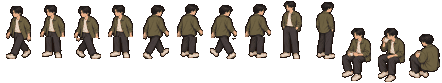
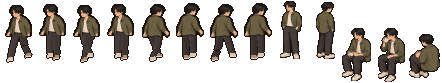
Walk cycle: generated upper body, redrawn legs that really alternate
Cutting and mirroring the generated legs left toes pointing backwards and legs jumping
sideways. Walk frames now keep each person's generated upper body and get legs redrawn in
their own trouser and shoe colours: one leg forward, passing (swinging foot lifted, a 1px
bob), the other leg forward, passing; far leg in shade, trailing knee bent, toes forward.

diff --git a/art/import_people.py b/art/import_people.py
@@ -155,13 +155,24 @@ def outline(im):
 
 
 def make_gait(frames, fw, anchor):
-    """The generated walk frames are all one stride with small wobbles, so walking looked like
-    gliding. Build a real alternating cycle per direction from the widest stride:
-      1 stride (as generated)  2 passing (feet together, 1px up)  3 the other stride (legs
-      mirrored about the body's centre)  4 passing."""
+    """The generated walk frames are all one frozen stride, and cutting/mirroring their legs
+    looked wrong (toes pointing backwards, legs jumping about). So each walk frame keeps the
+    generated upper body and gets legs redrawn in the person's own trouser and shoe colours
+    (sampled from their standing pose), in a real alternating cycle: one leg forward, passing
+    (the swinging foot lifted, the body bobbing up), the other leg forward, passing. The far
+    leg is in shade, the trailing knee bends, toes always point the way you walk."""
+    import math
     arr = np.asarray(frames).copy()
     ax, ay = anchor
+    fh = arr.shape[0]
     get = lambda n: arr[:, ORDER.index(n) * fw : (ORDER.index(n) + 1) * fw].copy()
+    lum = lambda c: 0.299 * c[0] + 0.587 * c[1] + 0.114 * c[2]
+
+    def ramp(px, fallback):
+        if not px:
+            return fallback
+        px = sorted(px, key=lum)
+        return [tuple(int(v) for v in px[int(len(px) * q)][:3]) + (255,) for q in (0.15, 0.5, 0.85)]
 
     def spread(f):
         low = (f[..., 3] > 0)[ay - 4 : ay]
@@ -169,27 +180,73 @@ def make_gait(frames, fw, anchor):
         return xs.max() - xs.min() if len(xs) else 0
 
     for d in ("front", "back"):
-        A = max((get(f"walk-{d}-{i}") for i in range(1, 5)), key=spread)
-        solid = A[..., 3] > 0
-        ys = np.nonzero(solid.any(1))[0]
-        top = ys[0]
-        hip = top + int((ay - top) * 0.62)  # below this: the legs
-        cx = int(np.median(np.nonzero(solid[top + int((ay - top) * 0.3) : top + int((ay - top) * 0.55)])[1]))
-        B = A.copy()
-        B[hip:] = 0
-        for x in range(fw):
-            mx = 2 * cx - x
-            if 0 <= mx < fw:
-                col = A[hip:, x]
-                B[hip:, mx] = np.where(col[:, 3:4] > 0, col, B[hip:, mx])
         S = get(f"stand-{d}")
-        passing = np.zeros_like(A)
-        passing[:hip] = A[:hip]
-        passing[hip:] = np.where(S[hip:, :, 3:4] > 0, S[hip:], 0)
-        passing = np.roll(passing, -1, axis=0)  # a little bob
-        for i, f in enumerate((A, passing, B, passing), start=1):
-            k = ORDER.index(f"walk-{d}-{i}")
-            arr[:, k * fw : (k + 1) * fw] = f
+        a = S[..., 3] > 0
+        top = np.nonzero(a.any(1))[0][0]
+        H = ay - top
+        hip = top + int(H * 0.6)
+        pants = ramp([tuple(S[y, x]) for y in range(hip + 3, ay - 6) for x in range(fw) if a[y, x] and lum(S[y, x]) > 40], [(40, 36, 44, 255), (58, 52, 62, 255), (80, 74, 86, 255)])
+        shoes = ramp([tuple(S[y, x]) for y in range(ay - 4, ay) for x in range(fw) if a[y, x] and lum(S[y, x]) > 120], [(200, 196, 188, 255), (230, 226, 218, 255), (250, 248, 244, 255)])
+        A = max((get(f"walk-{d}-{i}") for i in range(1, 5)), key=spread)
+        sa = A[..., 3] > 0
+        cx = int(np.median(np.nonzero(sa[top + int(H * 0.3) : top + int(H * 0.55)])[1]))
+        fwd = (-1.0, 0.35) if d == "front" else (1.0, -0.3)  # the walking direction, in the sprite
+        for k in range(4):
+            s = math.cos(2 * math.pi * k / 4)  # +1 one leg forward, -1 the other
+            bob = -1 if abs(s) < 0.5 else 0
+            img = Image.new("RGBA", (fw, fh), (0, 0, 0, 0))
+            px = img.load()
+
+            def put(x, y, c):
+                x, y = int(round(x)), int(round(y))
+                if 0 <= x < fw and 0 <= y < fh:
+                    px[x, y] = c
+
+            def leg(hx, swing, near):
+                fx, fy = hx + fwd[0] * swing * 6.0, ay - 3 + fwd[1] * swing * 6.0
+                fy -= 2 if (abs(swing) < 0.3 and near) else 0  # the swinging foot clears the floor
+                hy = hip + bob
+                L = max(1, int(fy - hy))
+                knee = 1.4 if swing < -0.3 else 0.5  # the trailing leg bends at the knee
+                for i in range(L + 1):
+                    u = i / L
+                    x = hx + (fx - hx) * u + fwd[0] * knee * math.sin(u * math.pi)
+                    y = hy + (fy - hy) * u
+                    w = 3.1 - 0.7 * u  # baggy at the hip, narrower at the hem
+                    for dx in np.arange(-w, w + 0.01, 0.5):
+                        lit, shade = dx < -w + 1.1, dx > w - 1.3
+                        c = pants[2] if lit else (pants[0] if shade else pants[1])
+                        if not near:
+                            c = pants[1] if lit else pants[0]  # the far leg is in shade
+                        put(x + dx, y, c)
+                tx = 1 if fwd[0] > 0 else -1
+                for i in range(-2, 6):  # a chunky sneaker, toe forward, white sole
+                    for j in range(4):
+                        if j == 0 and i > 3:
+                            continue
+                        c = shoes[2] if j == 3 else (shoes[1] if (i < 4 or j > 0) else shoes[0])
+                        if not near and j < 3:
+                            c = shoes[0]
+                        put(fx + tx * i * 0.75 - tx * 0.5, fy - 1 + j + fwd[1] * i * 0.4, c)
+
+            far, near = (cx + 3.5, cx - 3.0) if d == "front" else (cx - 3.5, cx + 3.0)
+            leg(far, -s if d == "front" else s, False)
+            leg(near, s if d == "front" else -s, True)
+            F = np.asarray(img).copy()
+            U = A.copy()
+            U[hip + 1 :] = 0
+            U = np.roll(U, bob, axis=0)
+            m = U[..., 3] > 0
+            F[m] = U[m]
+            out = Image.fromarray(F)
+            al = out.getchannel("A").load()
+            o = out.copy()
+            for y in range(fh):
+                for x in range(fw):
+                    if not al[x, y] and any(0 <= x + dx < fw and 0 <= y + dy < fh and al[x + dx, y + dy] for dx, dy in ((1, 0), (-1, 0), (0, 1), (0, -1))):
+                        o.putpixel((x, y), OUTLINE)
+            j = ORDER.index(f"walk-{d}-{k + 1}")
+            arr[:, j * fw : (j + 1) * fw] = np.asarray(o)
     return Image.fromarray(arr)
 
 
